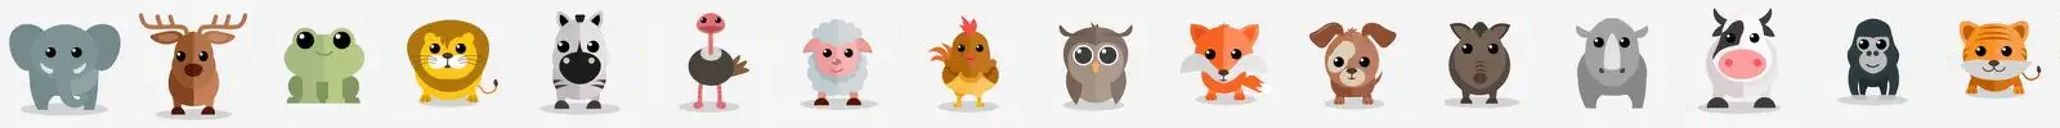
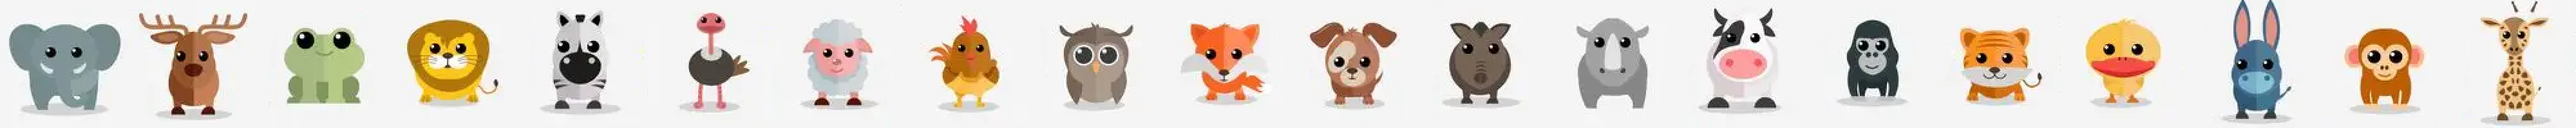
feat: add more animals

diff --git a/src/app.rs b/src/app.rs
@@ -6,14 +6,14 @@ use yew::prelude::*;
 
 #[function_component(App)]
 pub fn app() -> Html {
-    let game_mode = use_state::<Option<GameMode>, _>(|| Some(GameMode::SinglePlayer));
-    let score_type =
-        use_state::<Option<ScoreType>, _>(|| Some(ScoreType::Hits { point_per_hit: 1 }));
-    let card_type = use_state::<Option<CardType>, _>(|| Some(CardType::NBA));
+    // let game_mode = use_state::<Option<GameMode>, _>(|| Some(GameMode::SinglePlayer));
+    // let score_type =
+    //     use_state::<Option<ScoreType>, _>(|| Some(ScoreType::Hits { point_per_hit: 1 }));
+    // let card_type = use_state::<Option<CardType>, _>(|| Some(CardType::NBA));
 
-    // let game_mode = use_state::<Option<GameMode>, _>(|| None);
-    // let score_type = use_state::<Option<ScoreType>, _>(|| None);
-    // let card_type = use_state::<Option<CardType>, _>(|| None);
+    let game_mode = use_state::<Option<GameMode>, _>(|| None);
+    let score_type = use_state::<Option<ScoreType>, _>(|| None);
+    let card_type = use_state::<Option<CardType>, _>(|| None);
 
     let set_game_mode = {
         let game_mode = game_mode.clone();

diff --git a/src/game.rs b/src/game.rs
@@ -258,8 +258,8 @@ fn get_cards(total: i32) -> Vec<Card> {
 
     let mut rng = rand::thread_rng();
 
-    // cards.shuffle(&mut rng);
-    // cards.shuffle(&mut rng);
+    cards.shuffle(&mut rng);
+    cards.shuffle(&mut rng);
 
     cards
 }
@@ -268,7 +268,7 @@ pub fn get_board_grid(card_type: CardType) -> (i32, i32) {
     match card_type {
         CardType::NBA => (8, 5),
         CardType::Colors => (6, 4),
-        CardType::Animals => (8, 4),
+        CardType::Animals => (8, 5),
     }
 }
 

diff --git a/src/constants.rs b/src/constants.rs
@@ -39,4 +39,4 @@ pub const NBA_LOGOS: [&str; 20] = [
 ];
 
 pub const ANIMALS_IMAGE: &str = "public/animals.jpg";
-pub const ANIMALS_COUNT: i32 = 16;
+pub const ANIMALS_COUNT: i32 = 20;
